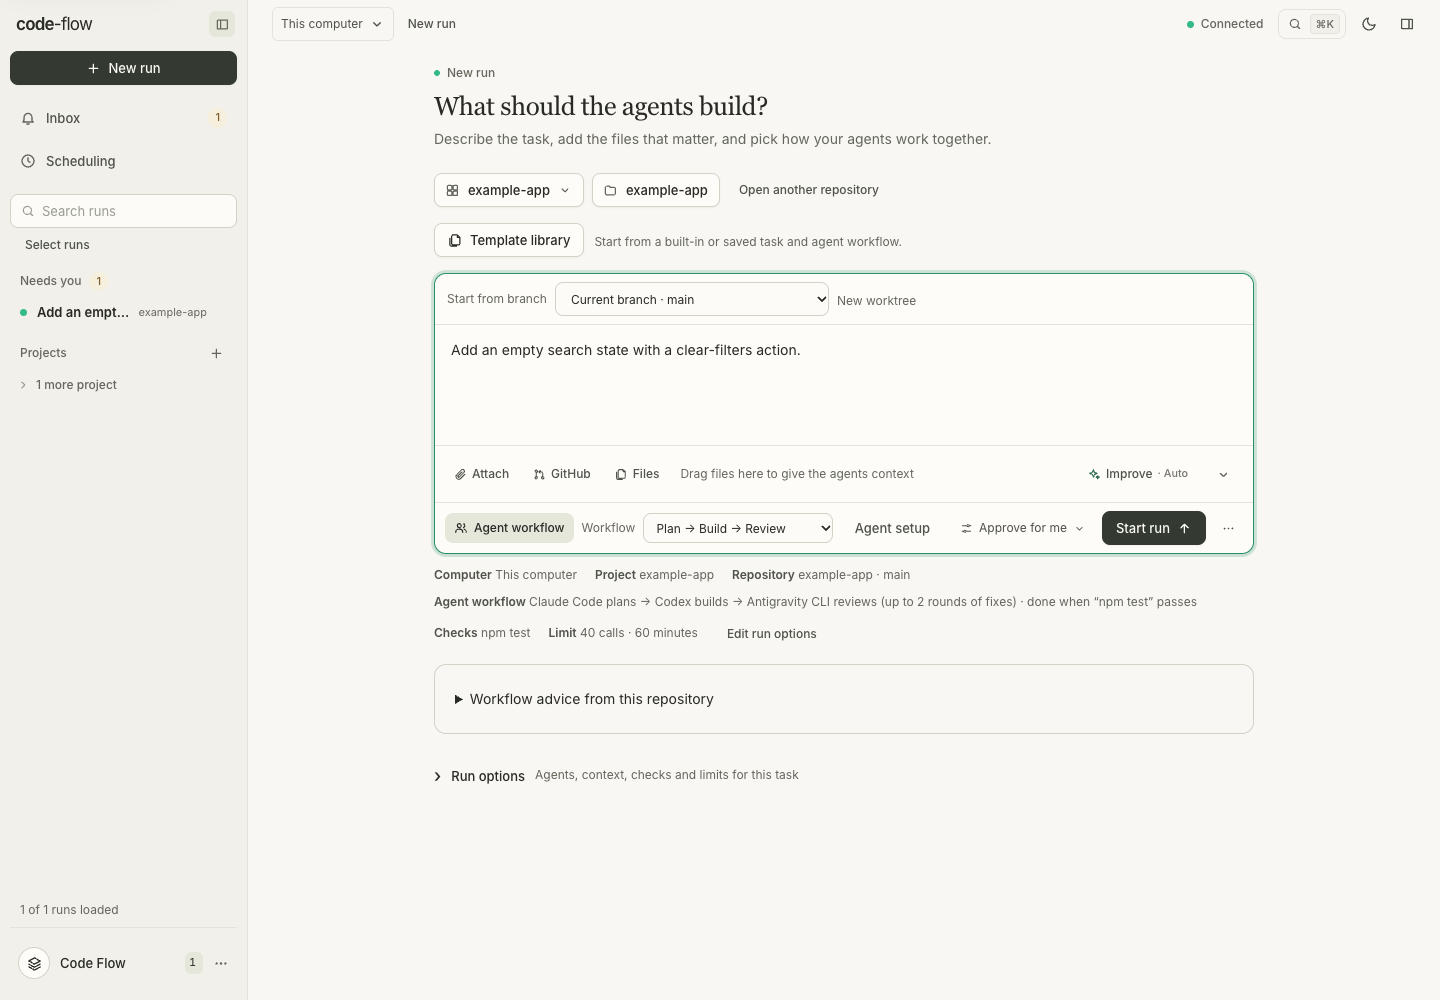
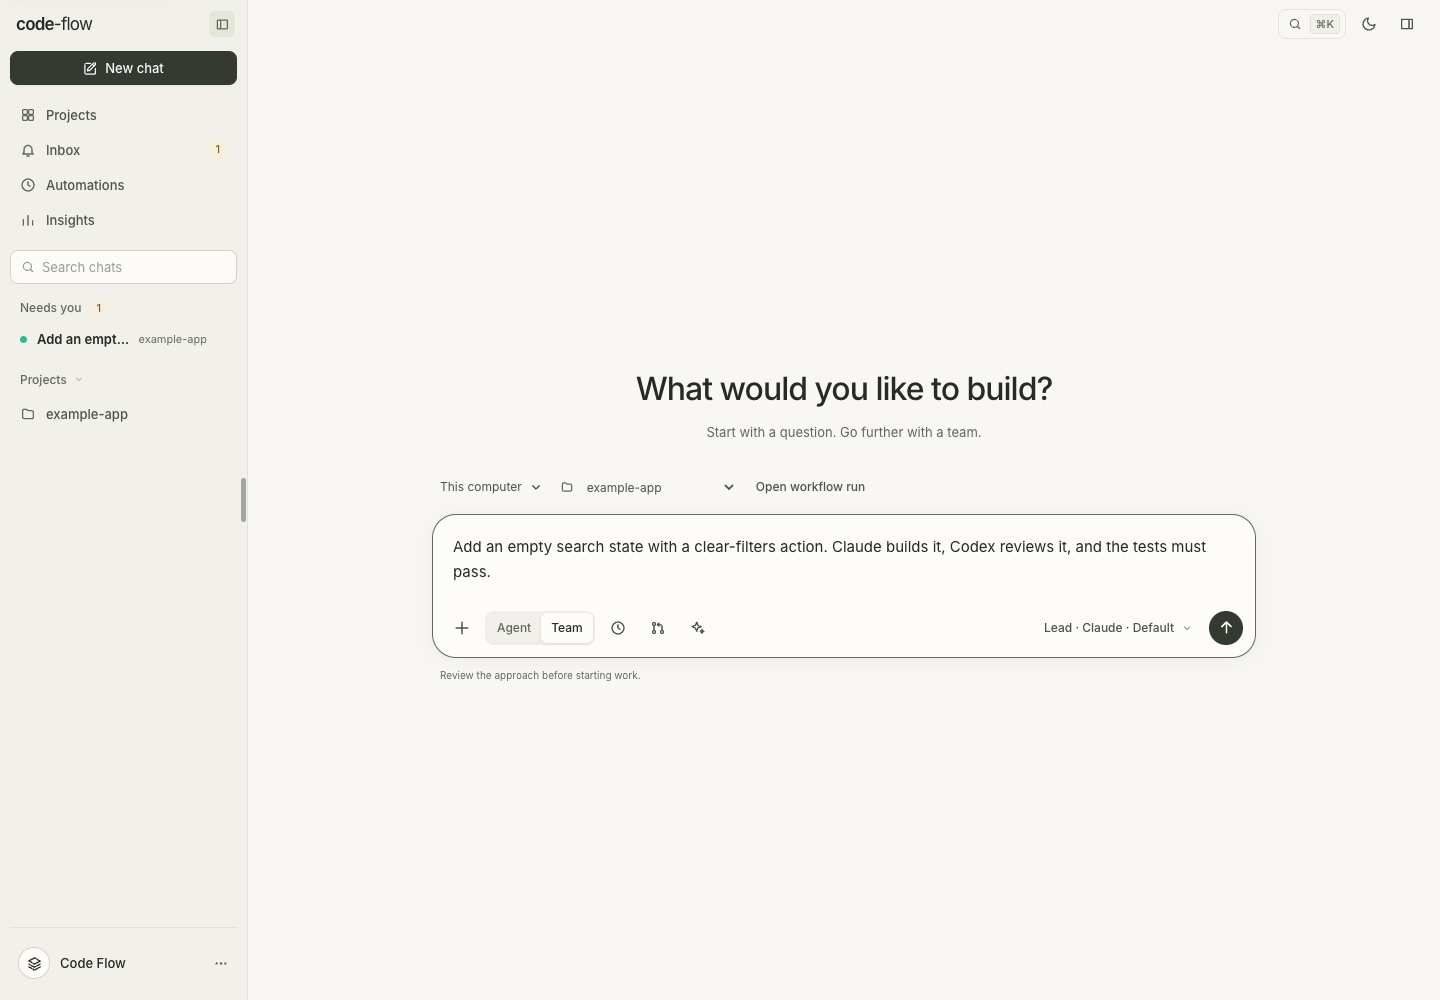
Refresh docs screenshots for Team mode and write preview 14 notes
The capture script now runs a Team run and shows the chat composer, so
the README and guides show the current UI.

diff --git a/docs/getting-started.md b/docs/getting-started.md
@@ -85,6 +85,8 @@ Both modes use http://localhost:4318 and `.codeflow-dev` as their home directory
 4. Review the proposed approach. **Adjust approach** changes models, efforts, commands and limits without another inference call. **Start task** approves and starts that exact revision once.
 5. Follow progress and ask questions in the same chat. Completed plans, implementations and later tasks remain in order. Inspect evidence and changes before applying or publishing them.
 
+![The chat composer in Team mode: a project, a goal and the lead that will propose the team (demo data)](images/composer-light.png)
+
 The composer remains visible while you read. Enter sends; Shift + Enter adds a line. Messages sent while a turn runs queue with their selected settings. Files and unsent drafts survive reload. Mode changes affect future work, and accepted Team tasks keep their original scope and settings. See the [chat guide](conversational-tasks.md) for source selection, chat context import, allowances and recovery.
 
 Initial Team preparation supports local Git repositories with Claude/Codex managed participants. Other providers remain available in Agent mode; container execution uses a **Workflow run**.
@@ -92,9 +94,6 @@ Initial Team preparation supports local Git repositories with Claude/Codex manag
 ## Your first run
 
 On this computer every new-work link opens a chat. Choose **Open workflow run** in a new chat (or go to `#/workflows`) for the run form: fixed workflows, team templates, run once later and schedules. On a phone, another device or an SSH host the same form is the start screen, headed **New run**:
-
-
-![The composer: a task and its workflow, Plan → Build → Review, with the check that decides when it's done (demo data)](images/composer-light.png)
 
 1. Choose **Open repository**, browse to a Git repository on the displayed computer, and choose **Open this repository**. Accept or change the suggested project name, then choose **Create project**. If the repository already belongs to projects, choose its destination. This opens the composer without starting an agent; no workspace or team setup is required.
 2. Describe the task. Drag files from the **Files** panel, or from Finder, onto the task box to give the agents context. **Improve** (at the right of the task box) rewrites a rough task so agents can act on it: the same intent, with the goal first, the specifics, how to tell it's done, and any open questions. **Undo** puts your text back. Existing acceptance criteria are sent as separate context; the rewrite is told to preserve them without repeating or contradicting them.
